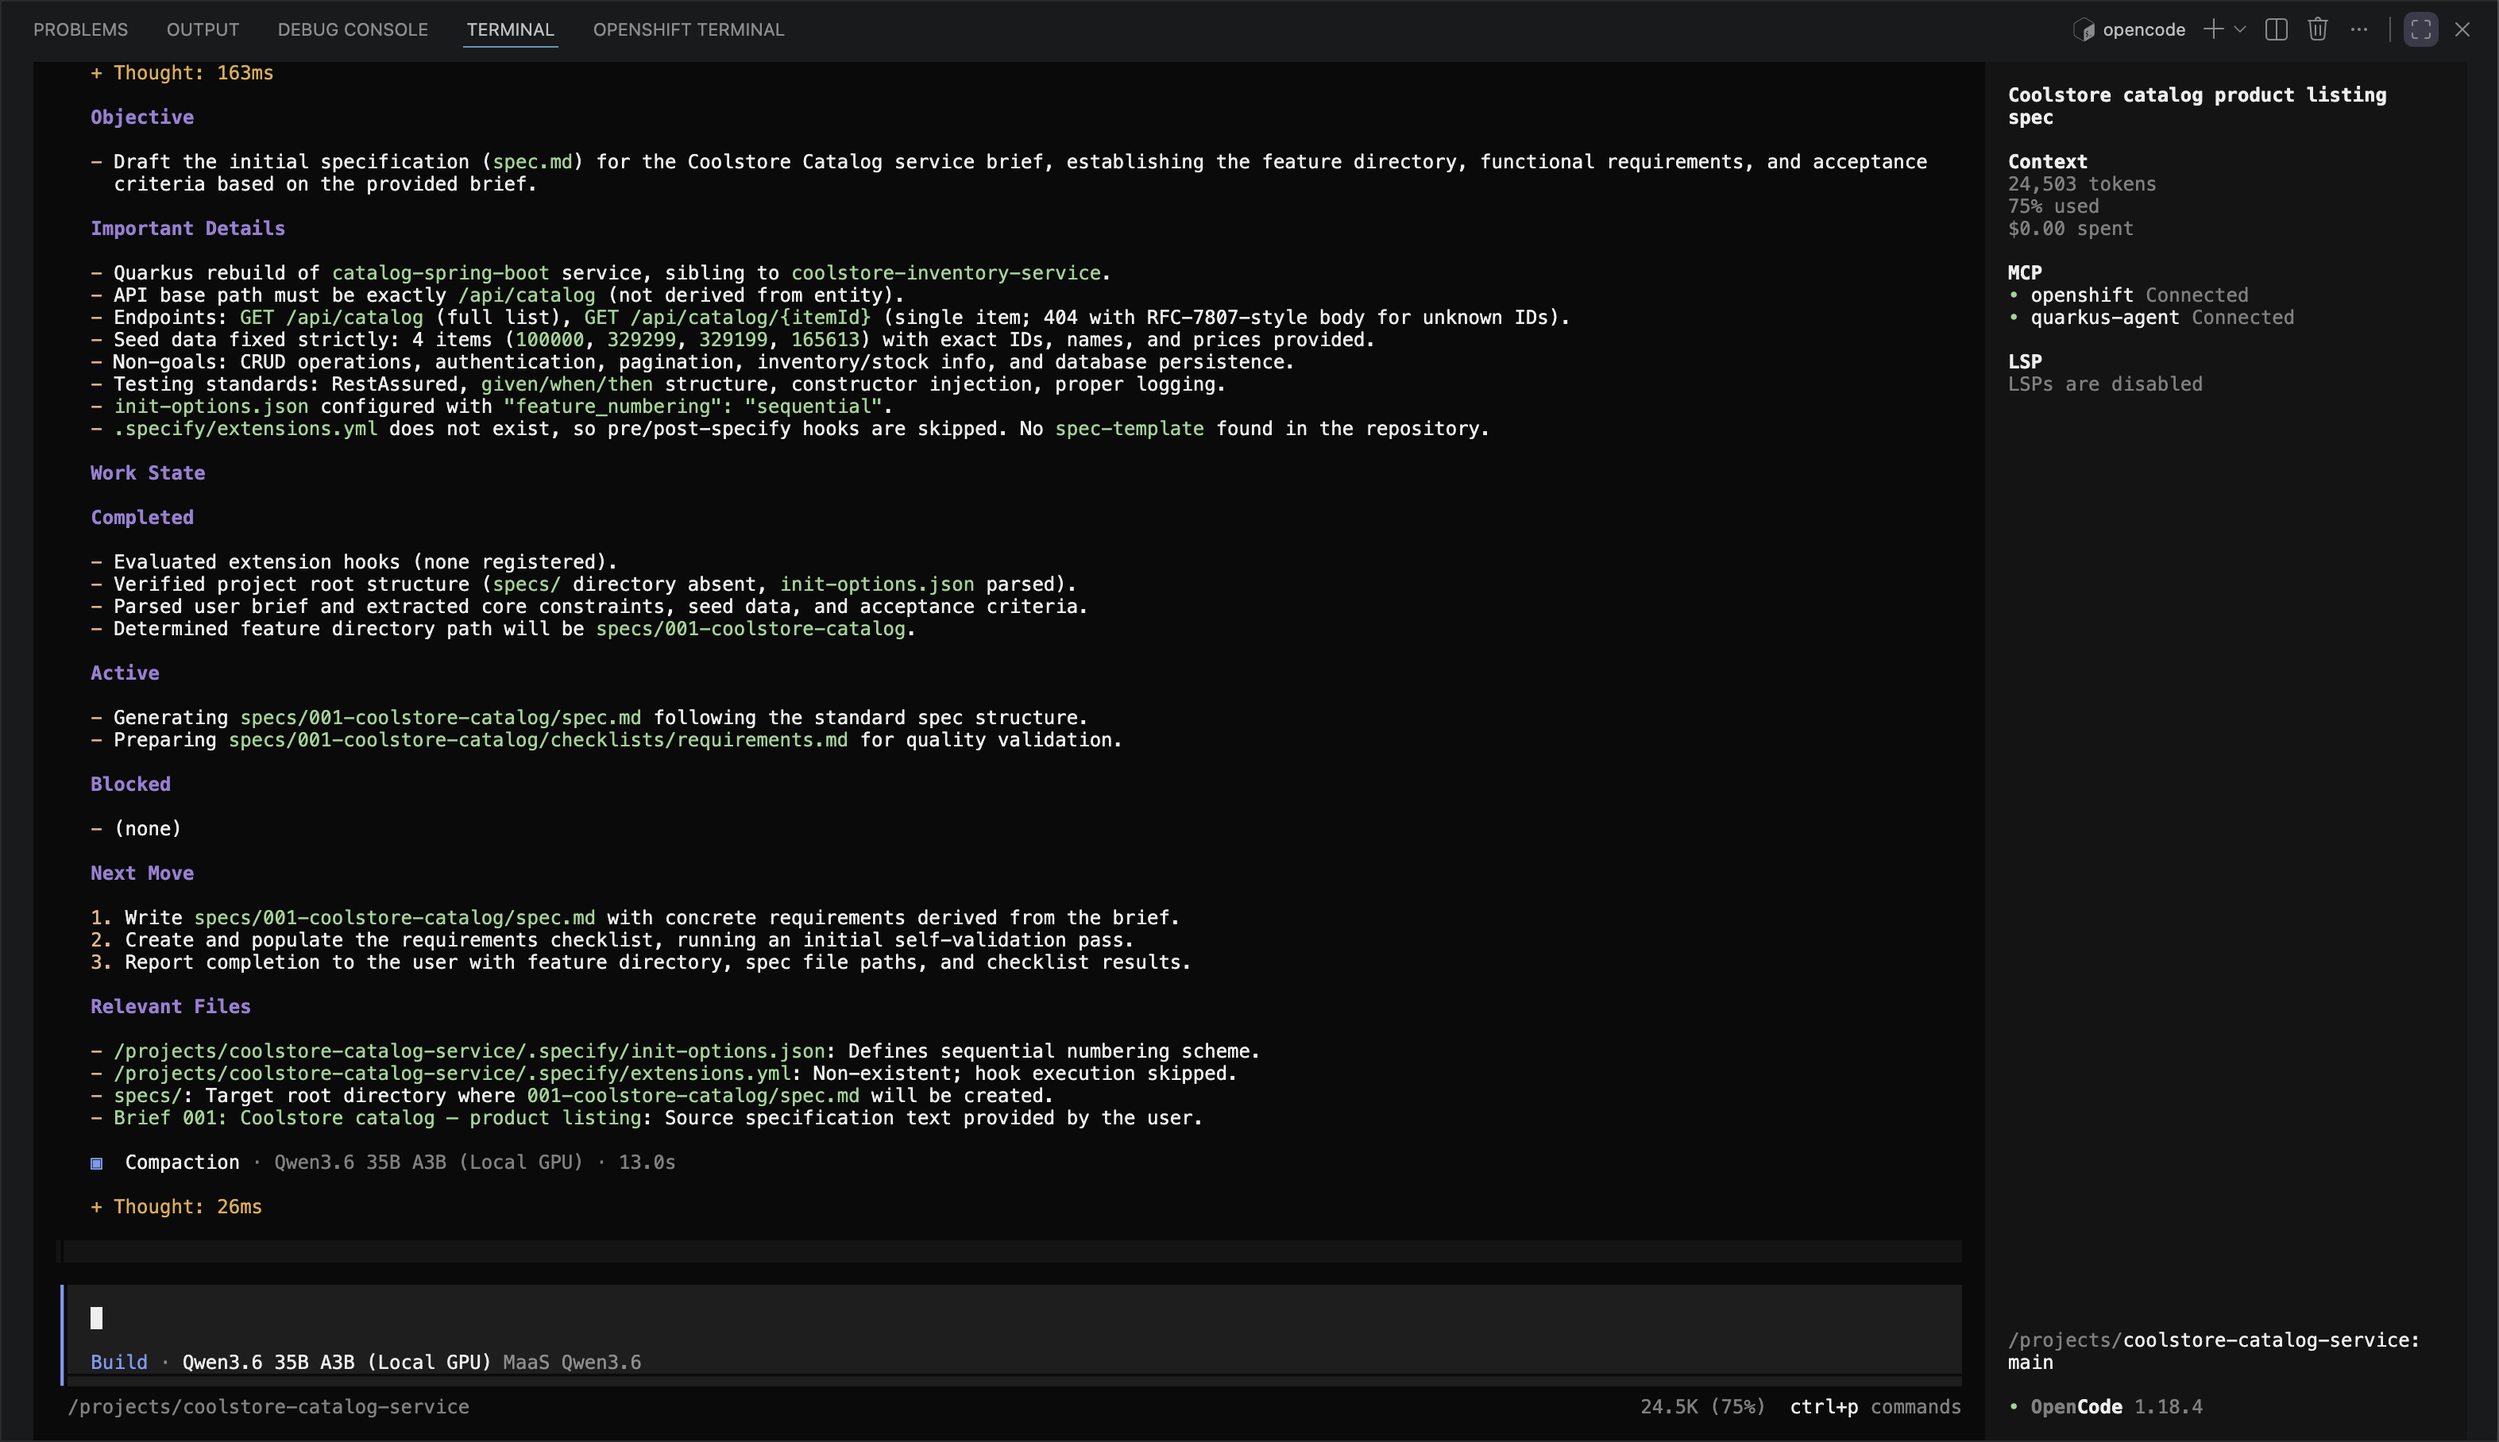
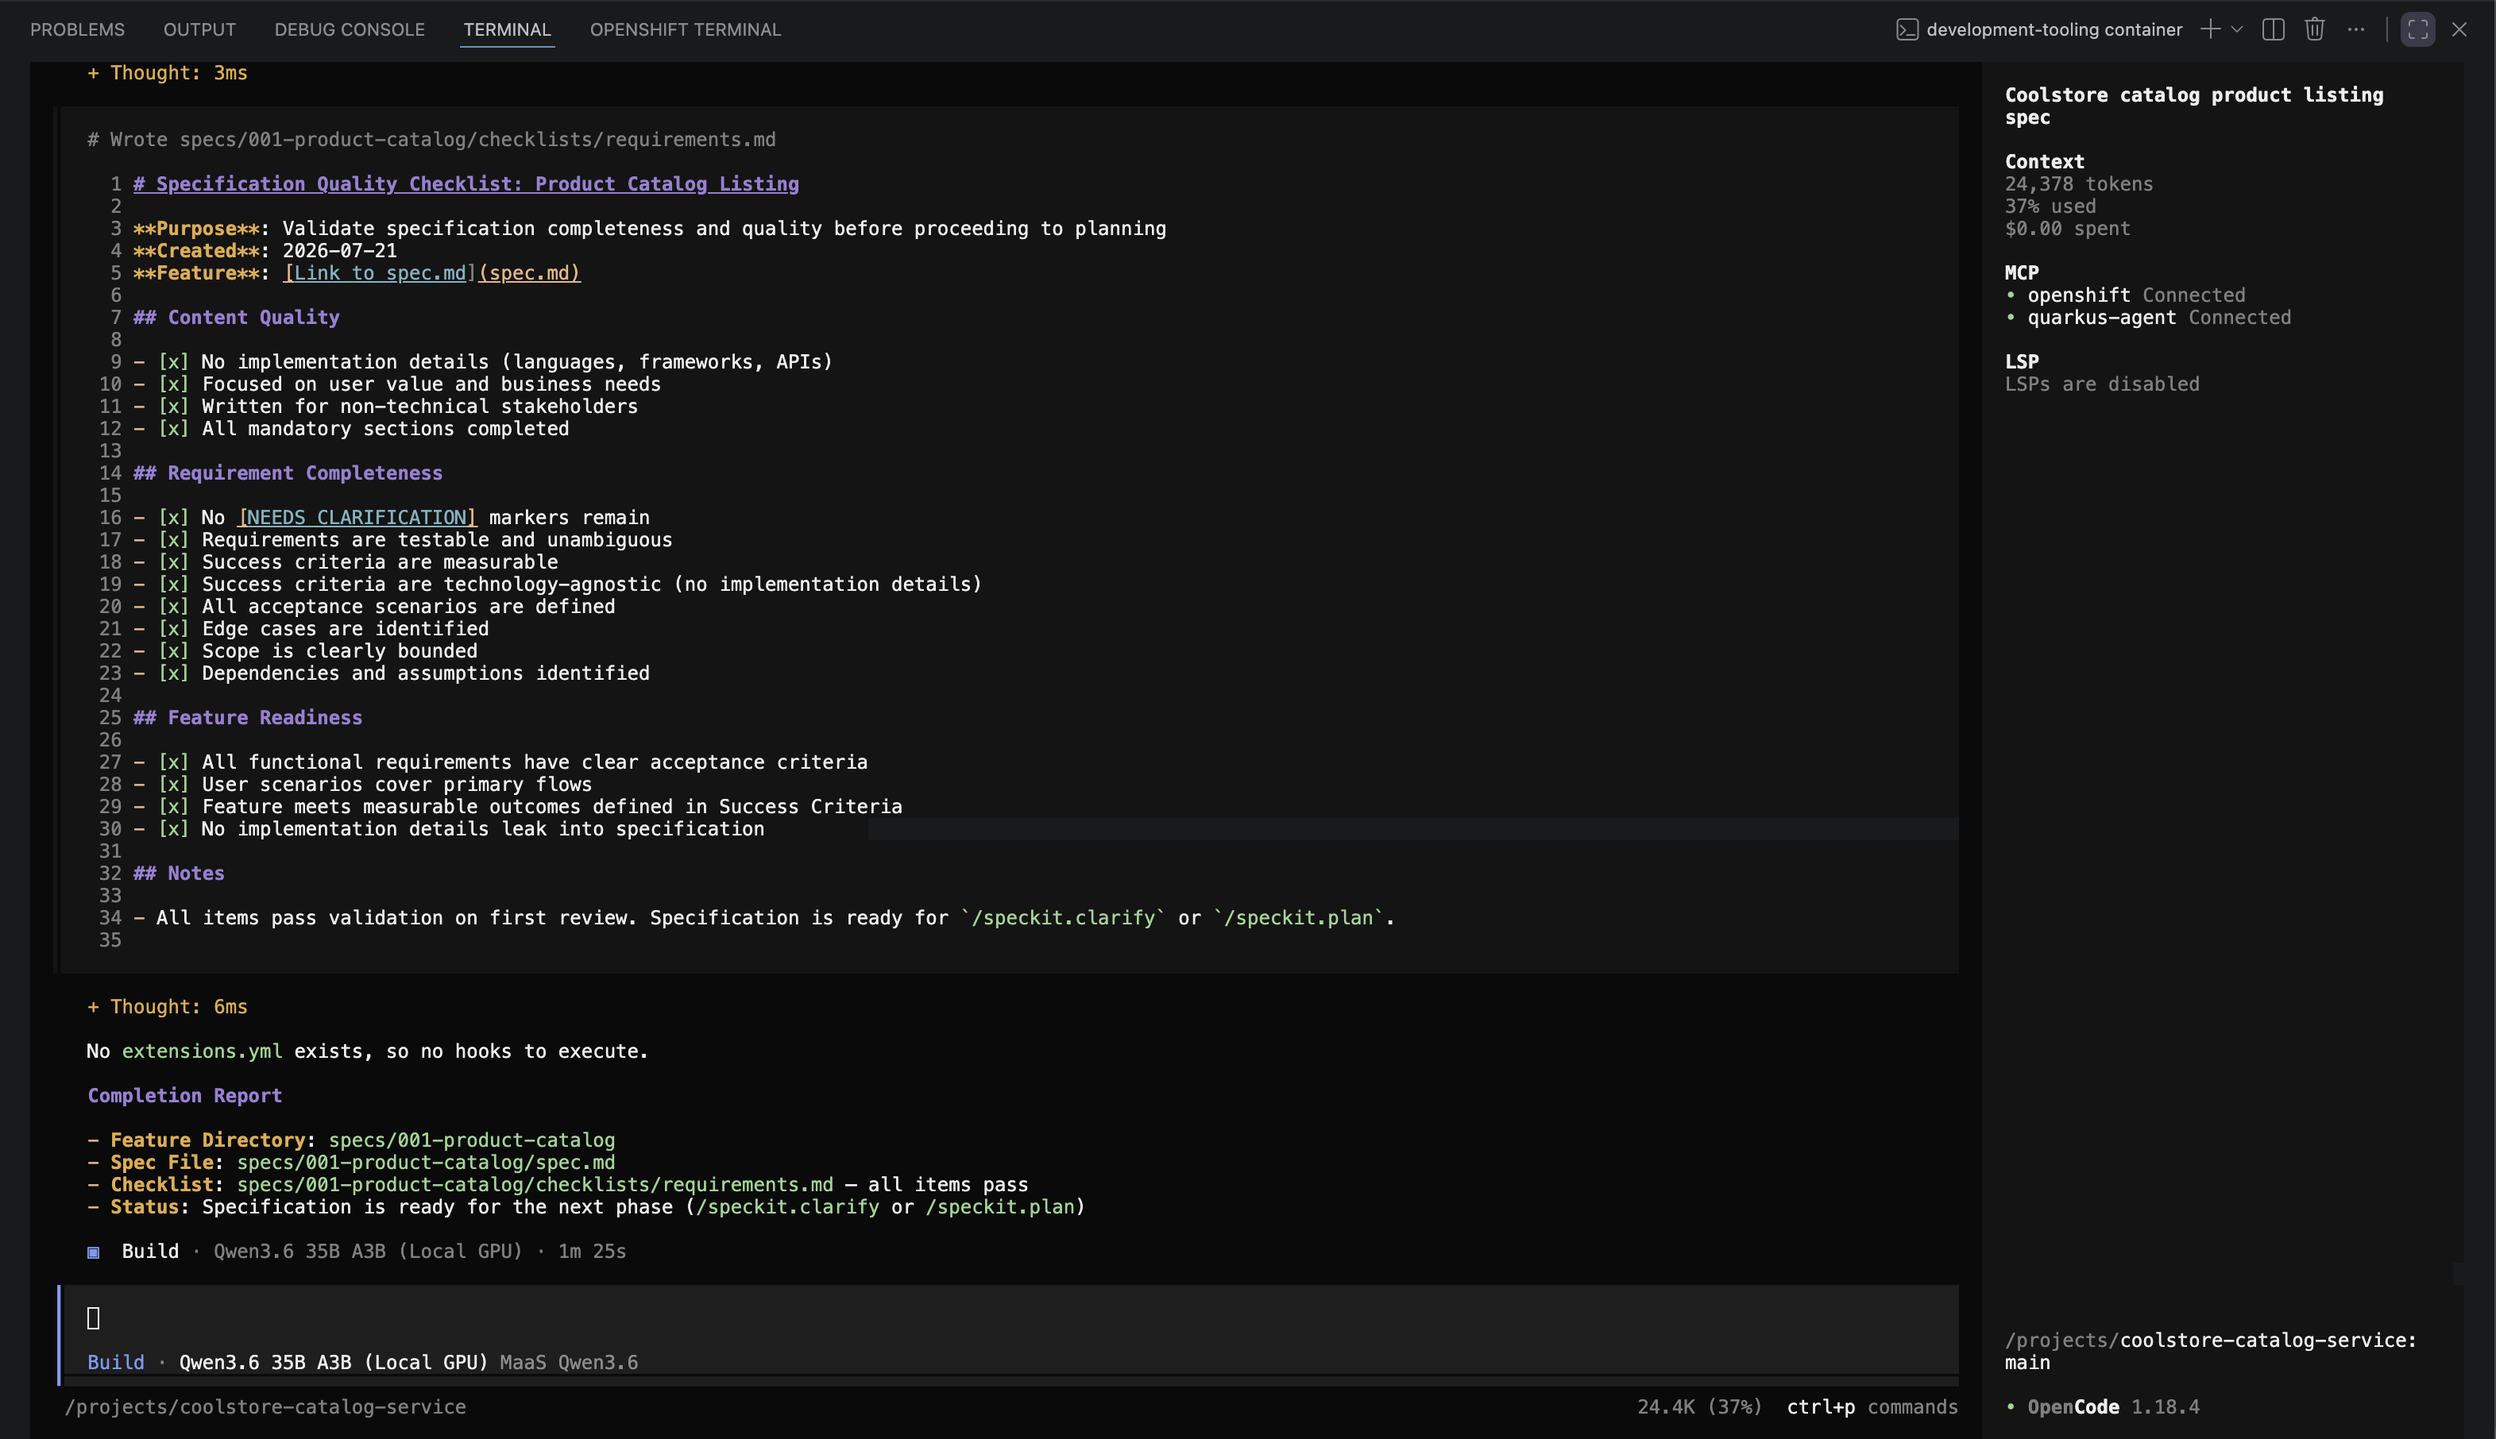
docs: stage 070 screenshots from the validated end-to-end run
Fresh captures from today's full workflow on the corrected platform:
split plan/tasks shots, new implement and dev-mode captures, and the
step-10 first-push-green. Removes the never-captured local-verify.png
and its stray 'triage endpoint' alt text.

diff --git a/stages/070-ai-agentic-development/coding-exercise.md b/stages/070-ai-agentic-development/coding-exercise.md
@@ -293,7 +293,9 @@ because it is steered by them.
 > pass on a larger spec, switch to `nemotron-3-nano-30b-a3b` (131K context)
 > — the model picker is a governed menu, not a credential decision.
 
-![Plan and tasks artifacts](images/speckit-plan-tasks.png)
+![Plan artifacts](images/speckit-plan.png)
+
+![Tasks artifacts](images/speckit-tasks.png)
 
 ---
 
@@ -302,6 +304,9 @@ because it is steered by them.
 1. Run `/speckit.implement`. The agent works through the tasks: source,
    configuration, and tests. Review and approve the diffs as they come —
    you are the senior on this pair.
+
+![Implement artifacts](images/speckit-implement.png)
+
 2. When it finishes, start dev mode (**Tasks: Run Task → devfile →
    2. Start Development mode**) and exercise the service:
 
@@ -317,17 +322,11 @@ curl -s localhost:8080/api/catalog/329299
 curl -s -i localhost:8080/api/catalog/999999
 ```
 
-3. Run the tests:
-
-```
-mvn -q test
-```
+![Quarkus Dev Mode](images/quarkus-devmode.png)
 
 **What you should see:** four seed products on the list endpoint, the
 Quarkus T-shirt by id, a proper 404 body for the unknown id, and tests
 green.
-
-![Local verification of the triage endpoint](images/local-verify.png)
 
 ---
 
